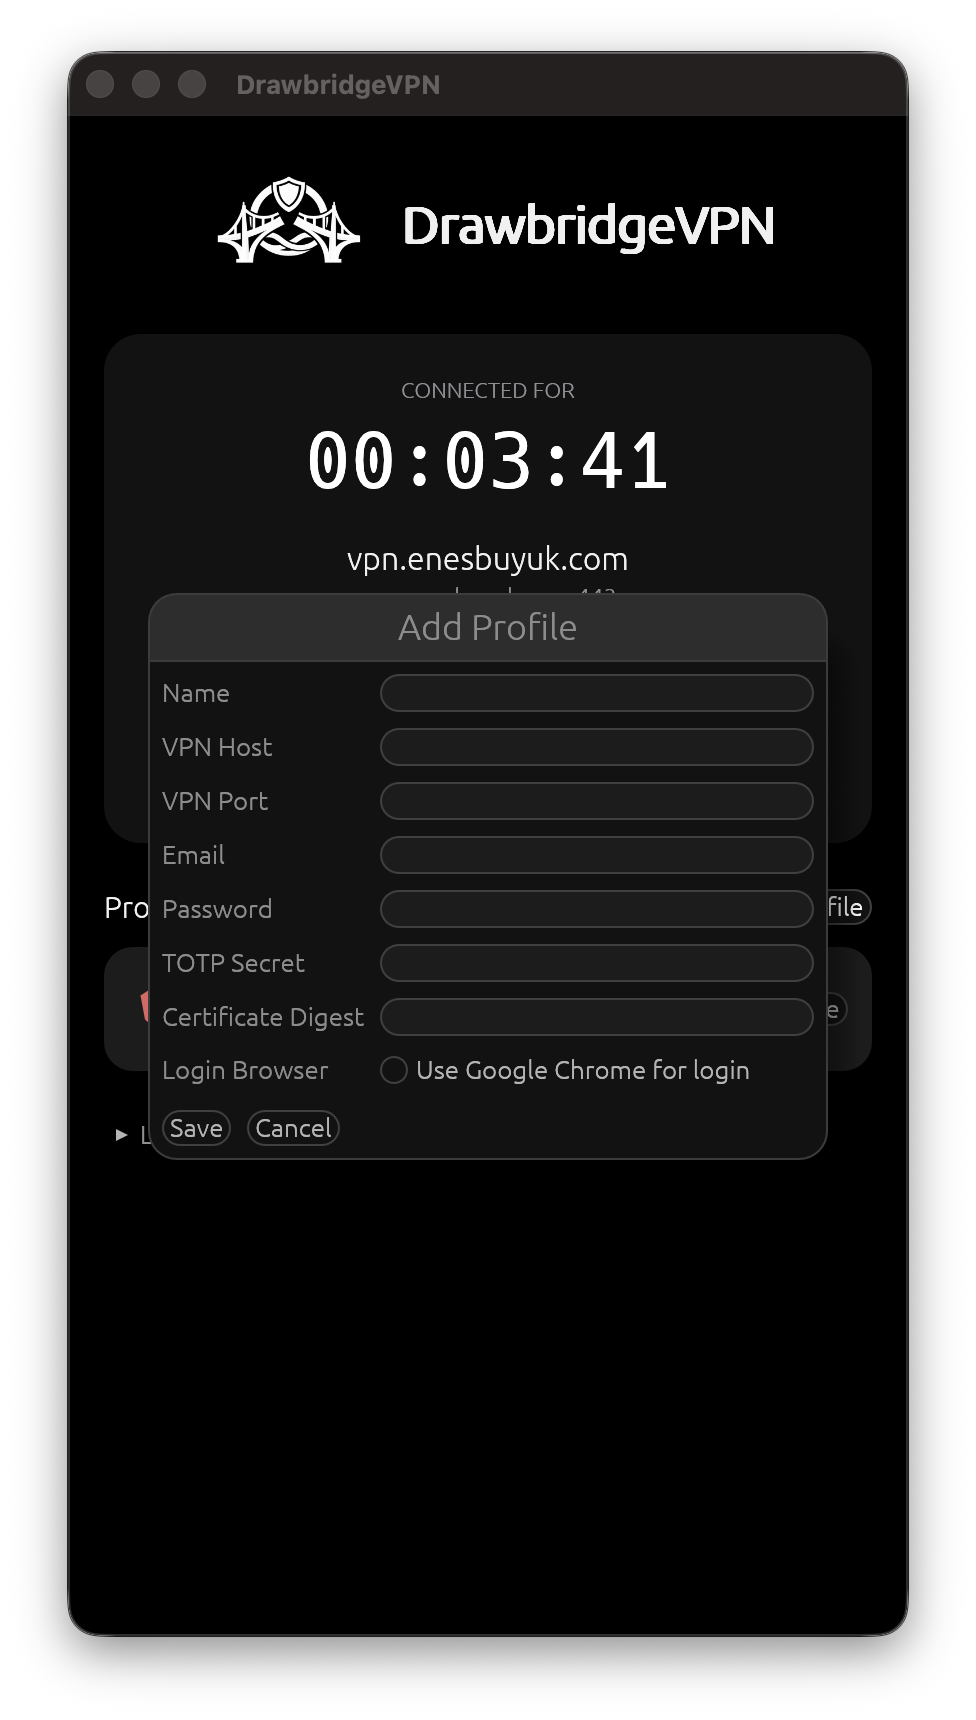
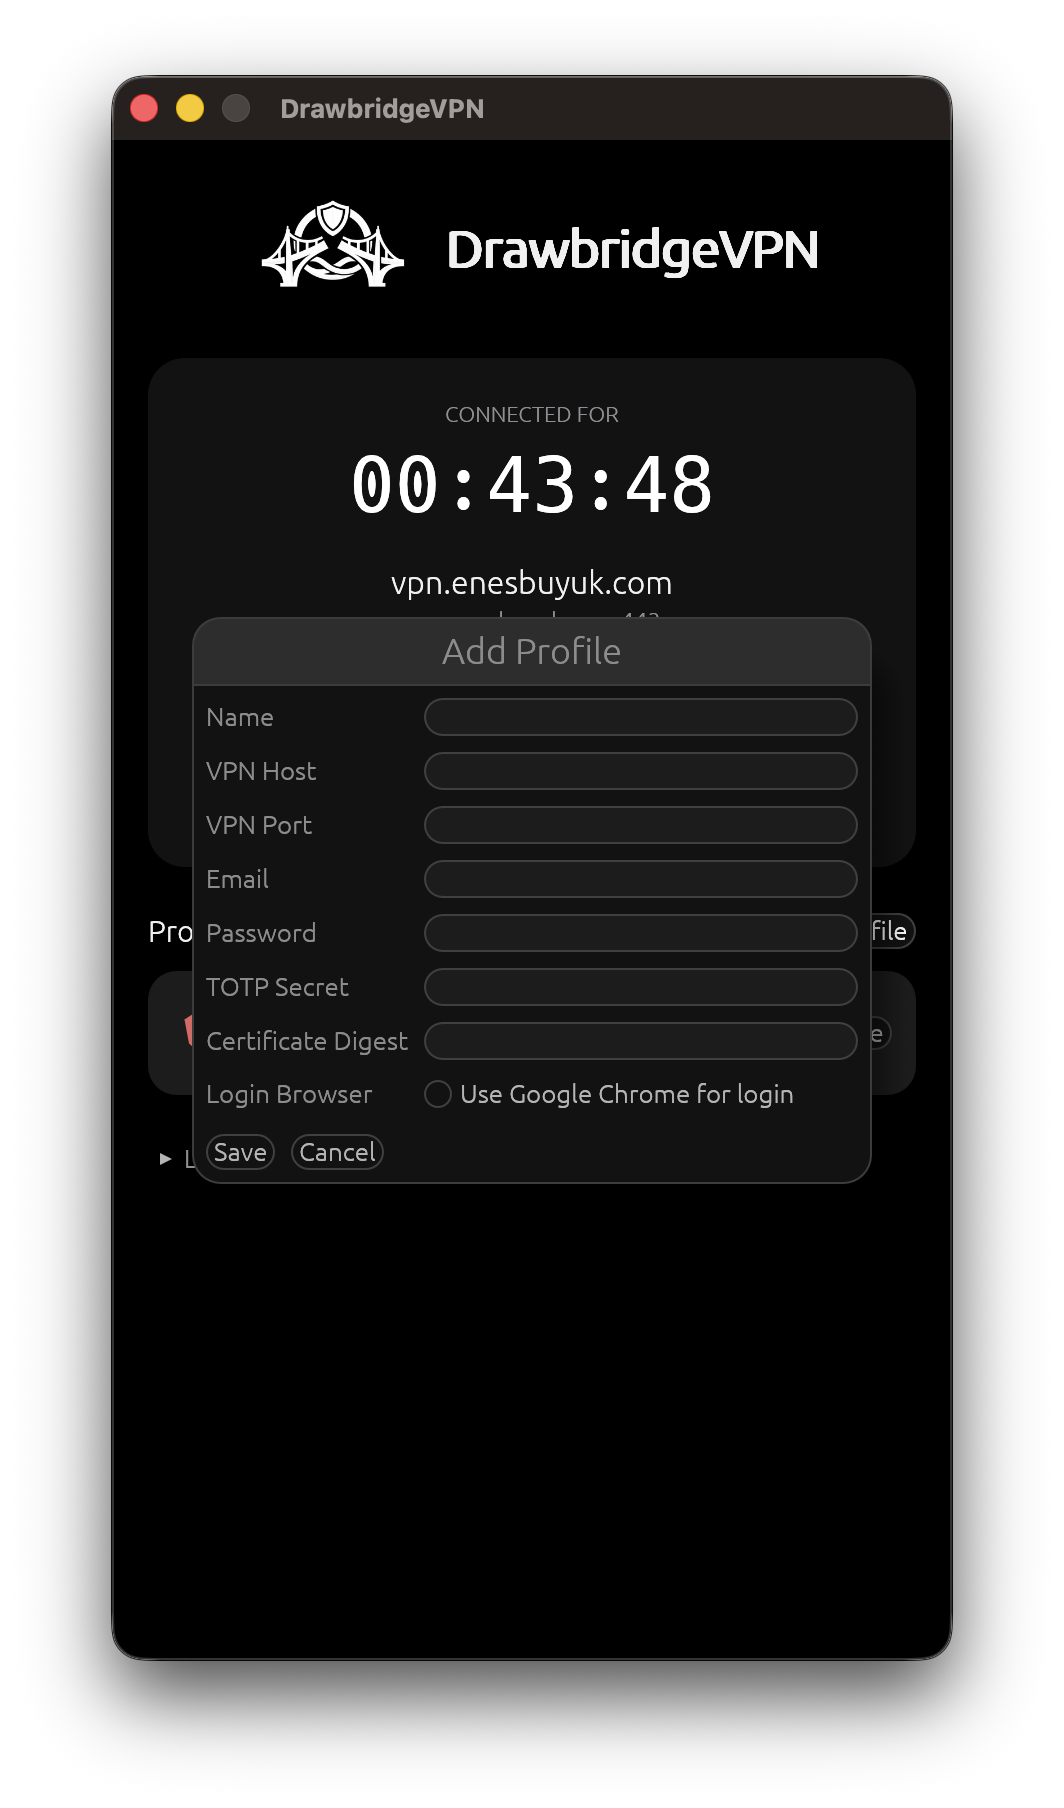
docs: update screenshots and remove fixed height attributes

Changed region(s): [[0.0615, 0.0308, 0.9529, 0.986], [0.3996, 0.1233, 0.7992, 0.1541]]

diff --git a/README.md b/README.md
@@ -66,8 +66,8 @@ Currently supports **Microsoft/Entra ID SSO in front of a Fortinet
 - Save, select the profile, hit **Connect**.
 
 <p align="center">
-  <img src="assets/screenshot-add-profile.png" alt="Add Profile dialog" width="360" height="620">
-  <img src="assets/screenshot-connected.png" alt="Connected state" width="360" height="620">
+  <img src="assets/screenshot-add-profile.png" alt="Add Profile dialog">
+  <img src="assets/screenshot-connected.png" alt="Connected state">
 </p>
 
 ## Prerequisites
